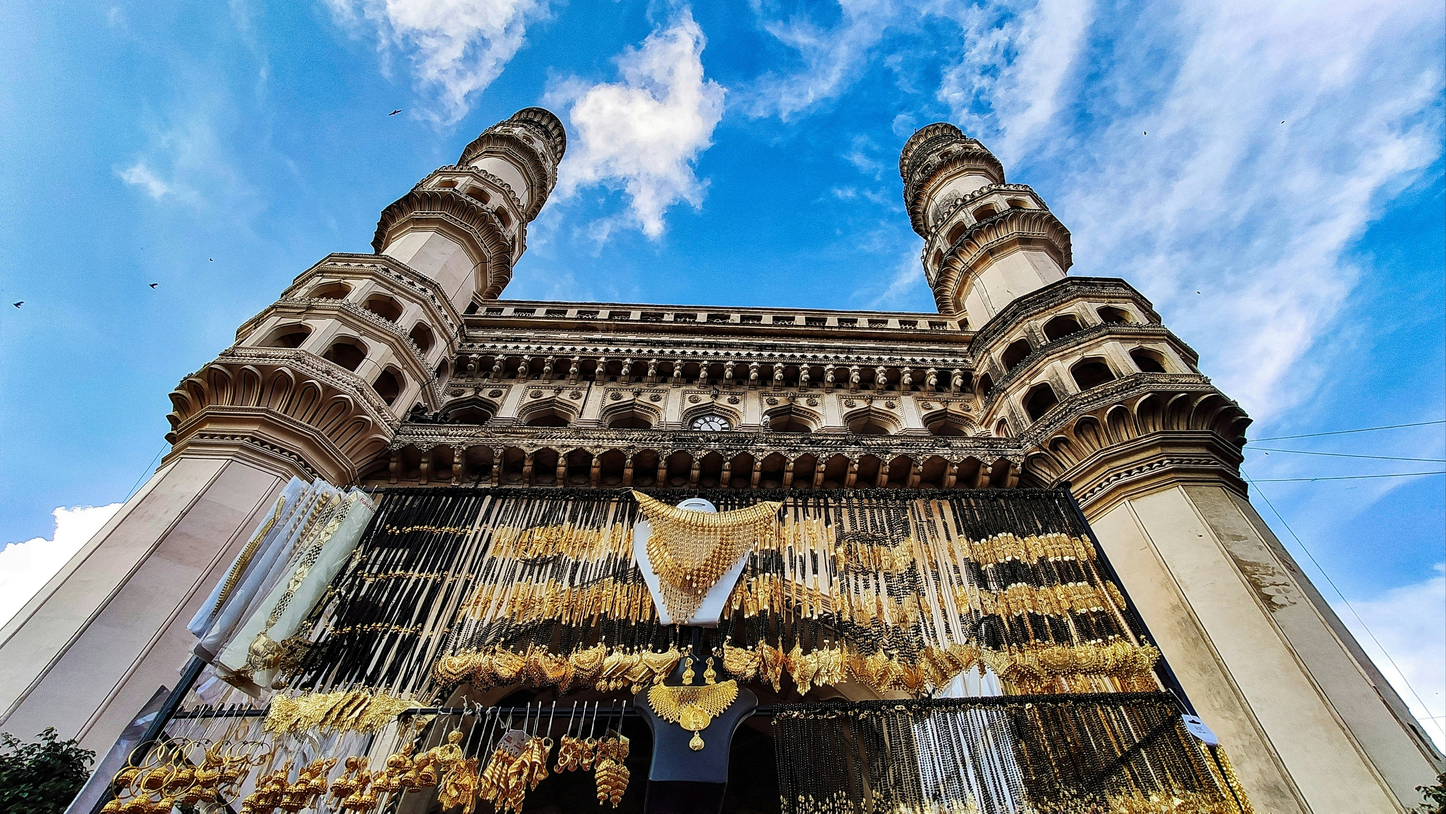
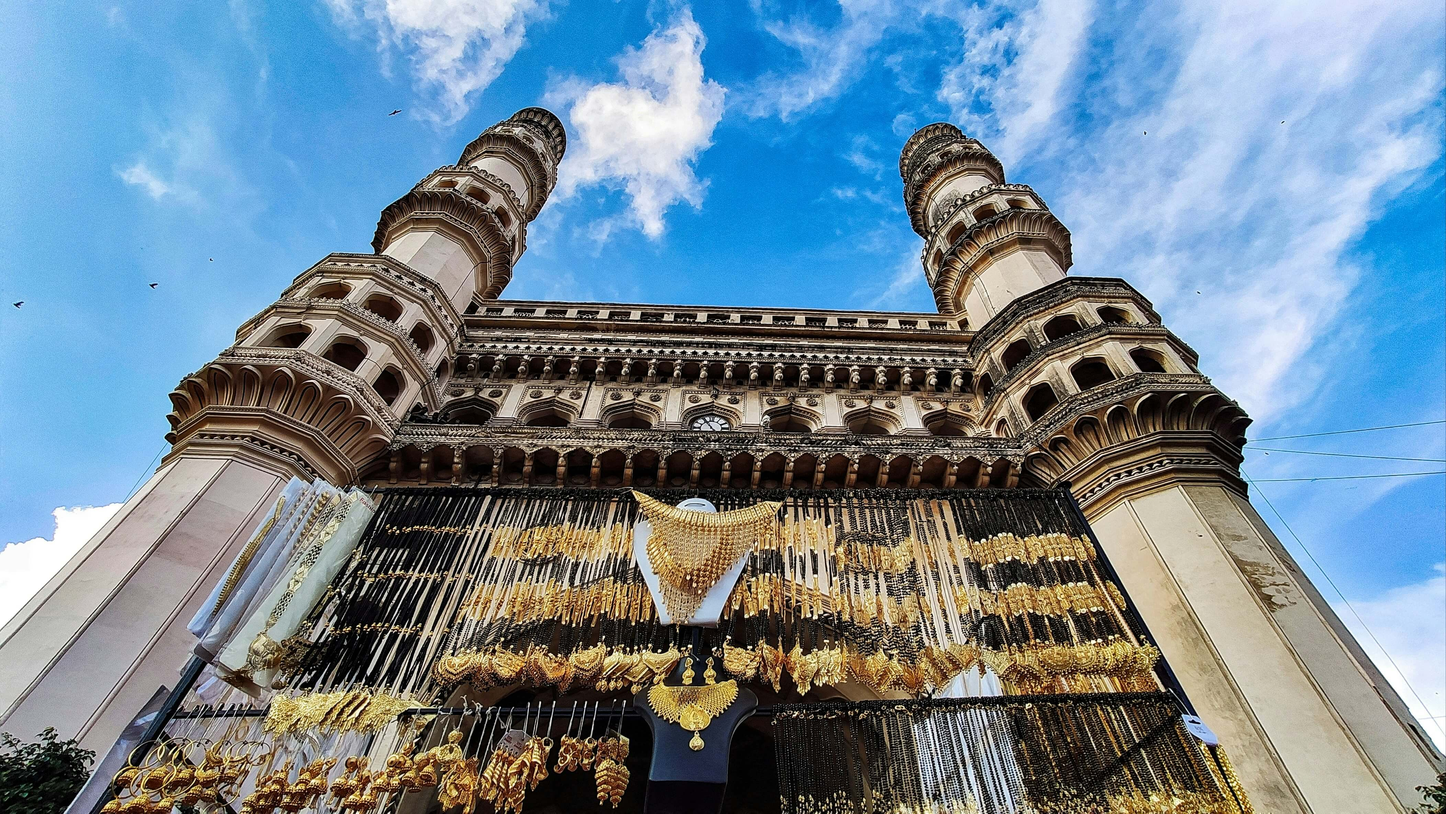
images optimized

diff --git a/pravaasa/src/app/destinations/page.js b/pravaasa/src/app/destinations/page.js
@@ -1,6 +1,6 @@
 // pages/destinations.js
 import Head from "next/head";
-
+import Image from "next/image";
 const topDestinations = [
   {
     name: "Goa",
@@ -118,10 +118,14 @@ const Destinations = () => {
                 key={destination.name}
                 className="bg-white shadow-md rounded-lg overflow-hidden"
               >
-                <img
+                <Image
                   src={destination.image}
                   alt={destination.name}
+                  width={500}
+                  height={300}
+                  layout="responsive"
                   className="w-full h-48 object-cover"
+                  priority
                 />
                 <div className="p-6">
                   <h2 className="text-2xl font-semibold mb-2">
@@ -147,10 +151,14 @@ const Destinations = () => {
                 key={destination.name}
                 className="bg-white shadow-md rounded-lg overflow-hidden"
               >
-                <img
+                 <Image
                   src={destination.image}
                   alt={destination.name}
+                  width={500}
+                  height={300}
+                  layout="responsive"
                   className="w-full h-48 object-cover"
+                  loading="lazy"
                 />
                 <div className="p-6">
                   <h3 className="text-xl font-semibold">{destination.name}</h3>

diff --git a/pravaasa/src/output.css b/pravaasa/src/output.css
@@ -729,10 +729,6 @@ video {
   margin-top: 20rem;
 }
 
-.ml-10 {
-  margin-left: 2.5rem;
-}
-
 .block {
   display: block;
 }
@@ -1517,10 +1513,6 @@ body {
 }
 
 @media (min-width: 1280px) {
-  .xl\:w-1\/3 {
-    width: 33.333333%;
-  }
-
   .xl\:grid-cols-4 {
     grid-template-columns: repeat(4, minmax(0, 1fr));
   }
